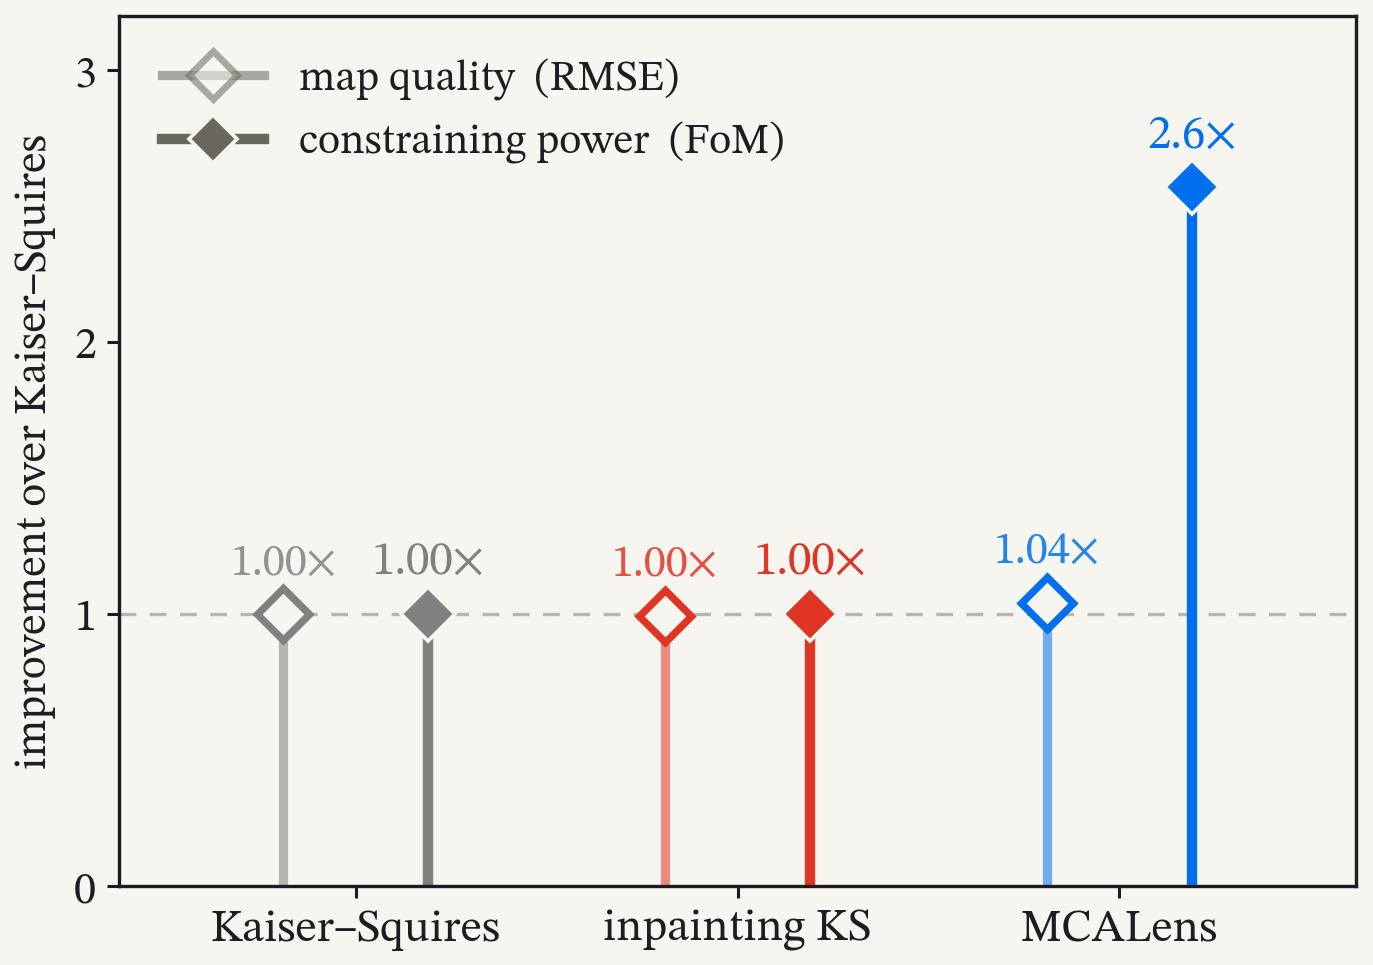
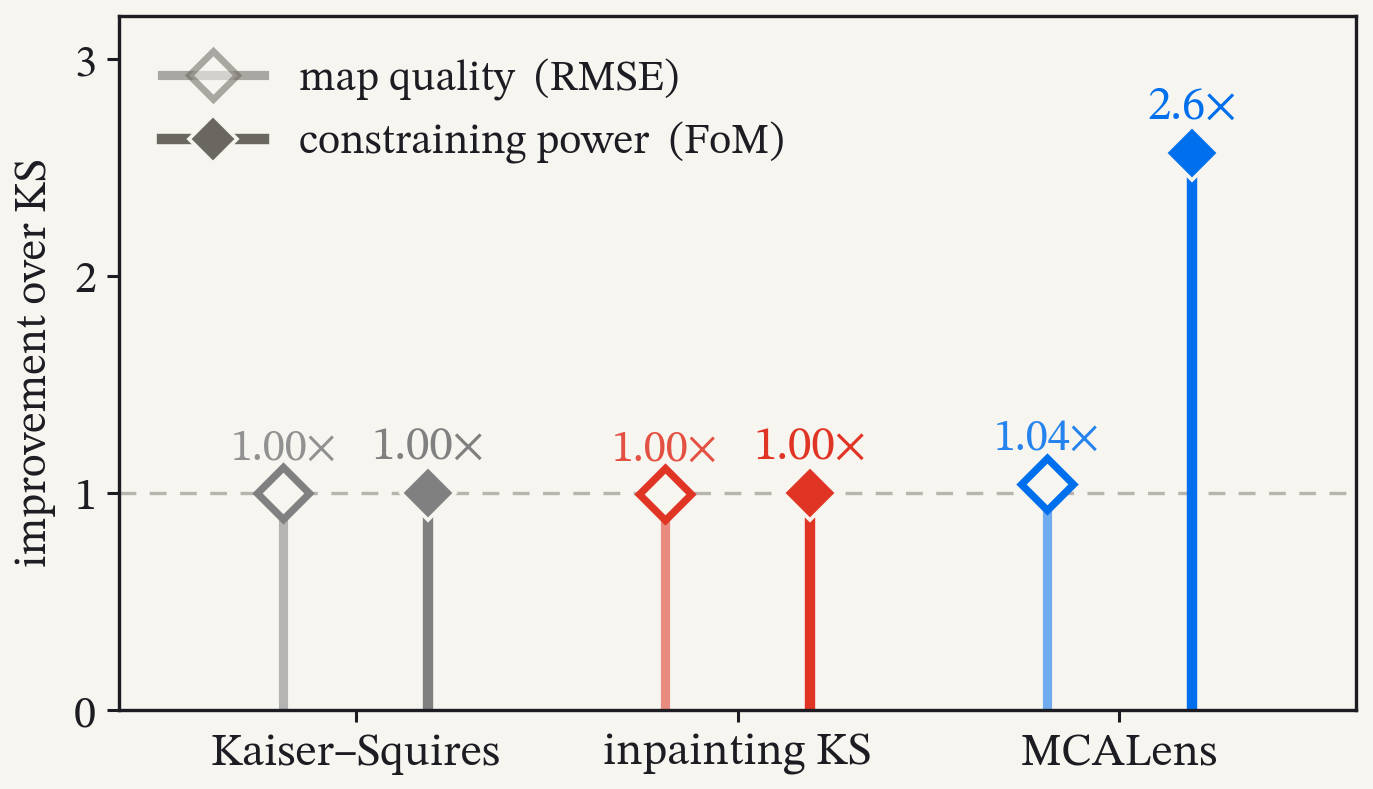
style(PhD_Defense_2026): the stems panel gets out of the corner plot's way
It was displaying 575x400 against the corner plot's 500x500 -- the supporting
figure was the bigger of the two, and it was squeezing the bullets underneath.

Drawn short instead: figsize 4.55 -> 3.75 inches tall, so 575x330 on the canvas.
WIDTH is what sets the type size here, and the width did not change, so the
height came down without touching a single font -- every label still measures
17.9 to 19.8 px, exactly as before.

The y-axis label is "improvement over KS" rather than "over Kaiser-Squires";
the x-axis already names the method in full.

The freed space goes to the bullets, which were sitting at 16.99 px -- a hair
under the floor, which is why they read as small. Now 19.7 px. Slide 621 of 720.

Claude-Session: https://claude.ai/code/session_01CmWUCjty7caDD9onTW9WwD

diff --git a/PhD_Defense_2026/custom.css b/PhD_Defense_2026/custom.css
@@ -591,7 +591,12 @@
    max-height 300px it displayed at 0.37x native -- which put its own labels at 15-17px
    on the canvas, under the floor. The slide had 99px of slack; 360px spends it and the
    figure's type clears 17px. This is the LAST rule for the selector (REVEAL-GOTCHAS 4b). */
-.reveal .slides section .resultcol .stemfig img { max-height: 400px; }
+/* 2026-09-11: the figure is drawn short now, so WIDTH is what binds and the cap is
+   only a backstop. Width is also what sets the type size on the canvas, so the panel
+   can be shorter than the corner plot without any label shrinking. */
+.reveal .slides section .resultcol .stemfig img { max-height: 360px; }
+/* the bullets under it sat at 16.99 px, a hair under the floor */
+.reveal .slides section .resultcol .takeaway .points { font-size: 0.82em; line-height: 1.45; }
 
 /* Kept for the one surviving .ladder (frame 66, backup) and for the two parked
    in index.html.  The rungs must not borrow the Wong l1/CNN pair, which encodes

diff --git a/tools/make-fom-stems.py b/tools/make-fom-stems.py
@@ -102,6 +102,11 @@ def massmapping():
     The "higher is better for both" note under the axis was removed 2026-09-11
     (Andreas): "improvement over Kaiser-Squires" already says it.
 
+    Kept deliberately SHORT in the y direction (2026-09-11, Andreas): at a taller
+    aspect the panel displayed larger than the corner plot beside it and crowded the
+    bullets underneath. The width is what sets the type size on the canvas, so the
+    height can come down without touching a single font.
+
     The two are told apart by MARKER, not colour: colour means the method here,
     on the corner plot beside it, and in the legend. Open diamond = map quality,
     filled = constraining power.
@@ -129,7 +134,7 @@ def massmapping():
     ftags = ["1.00×", "1.00×", "2.6×"]
     d     = 0.19
 
-    fig, ax = plt.subplots(figsize=(6.4, 4.55))
+    fig, ax = plt.subplots(figsize=(6.4, 3.75))
     fig.patch.set_facecolor(PAPER)
     frame(ax)
     ax.axhline(1.0, color=EDGE, lw=1.1, ls=(0, (5, 4)), zorder=1)
@@ -159,7 +164,7 @@ def massmapping():
     ax.set_ylim(0, 3.2)
     ax.set_yticks([0, 1, 2, 3])
     ax.set_yticklabels(["0", "1", "2", "3"], fontsize=14.5)
-    ax.set_ylabel("improvement over Kaiser–Squires", fontsize=14.5, color=INK, labelpad=6)
+    ax.set_ylabel("improvement over KS", fontsize=14.5, color=INK, labelpad=6)
     ax.set_xticks(xs)
     ax.set_xticklabels(names, fontsize=15, color=INK)
     fig.tight_layout()
